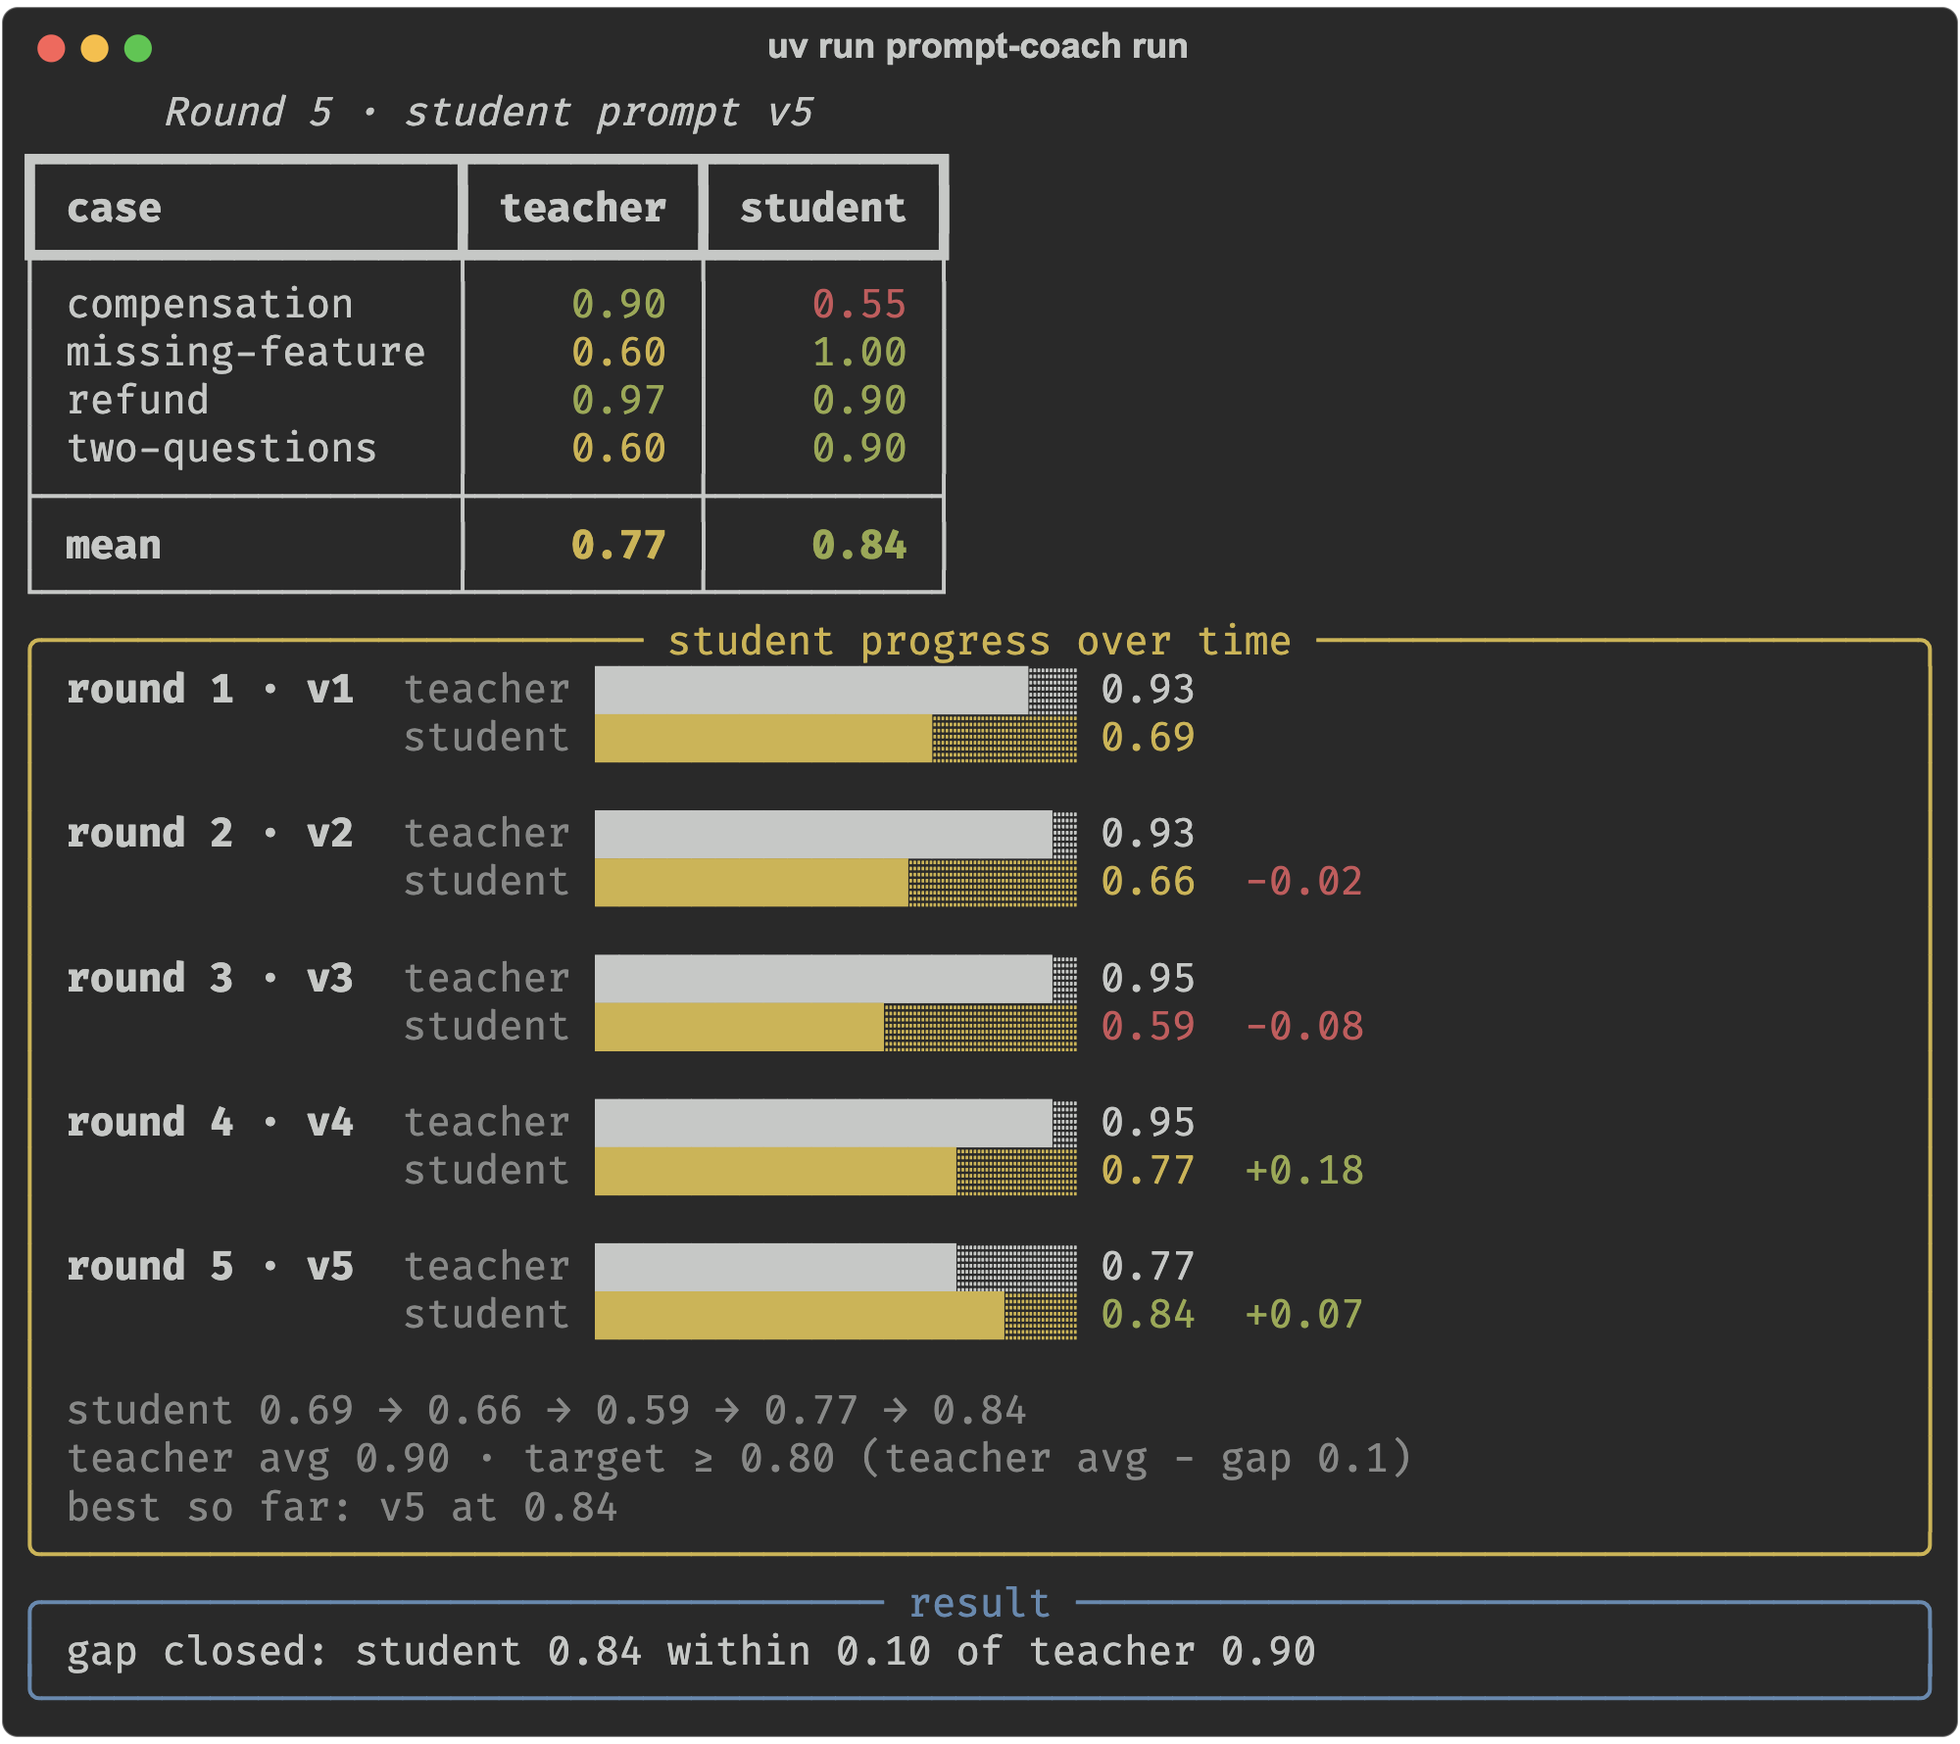
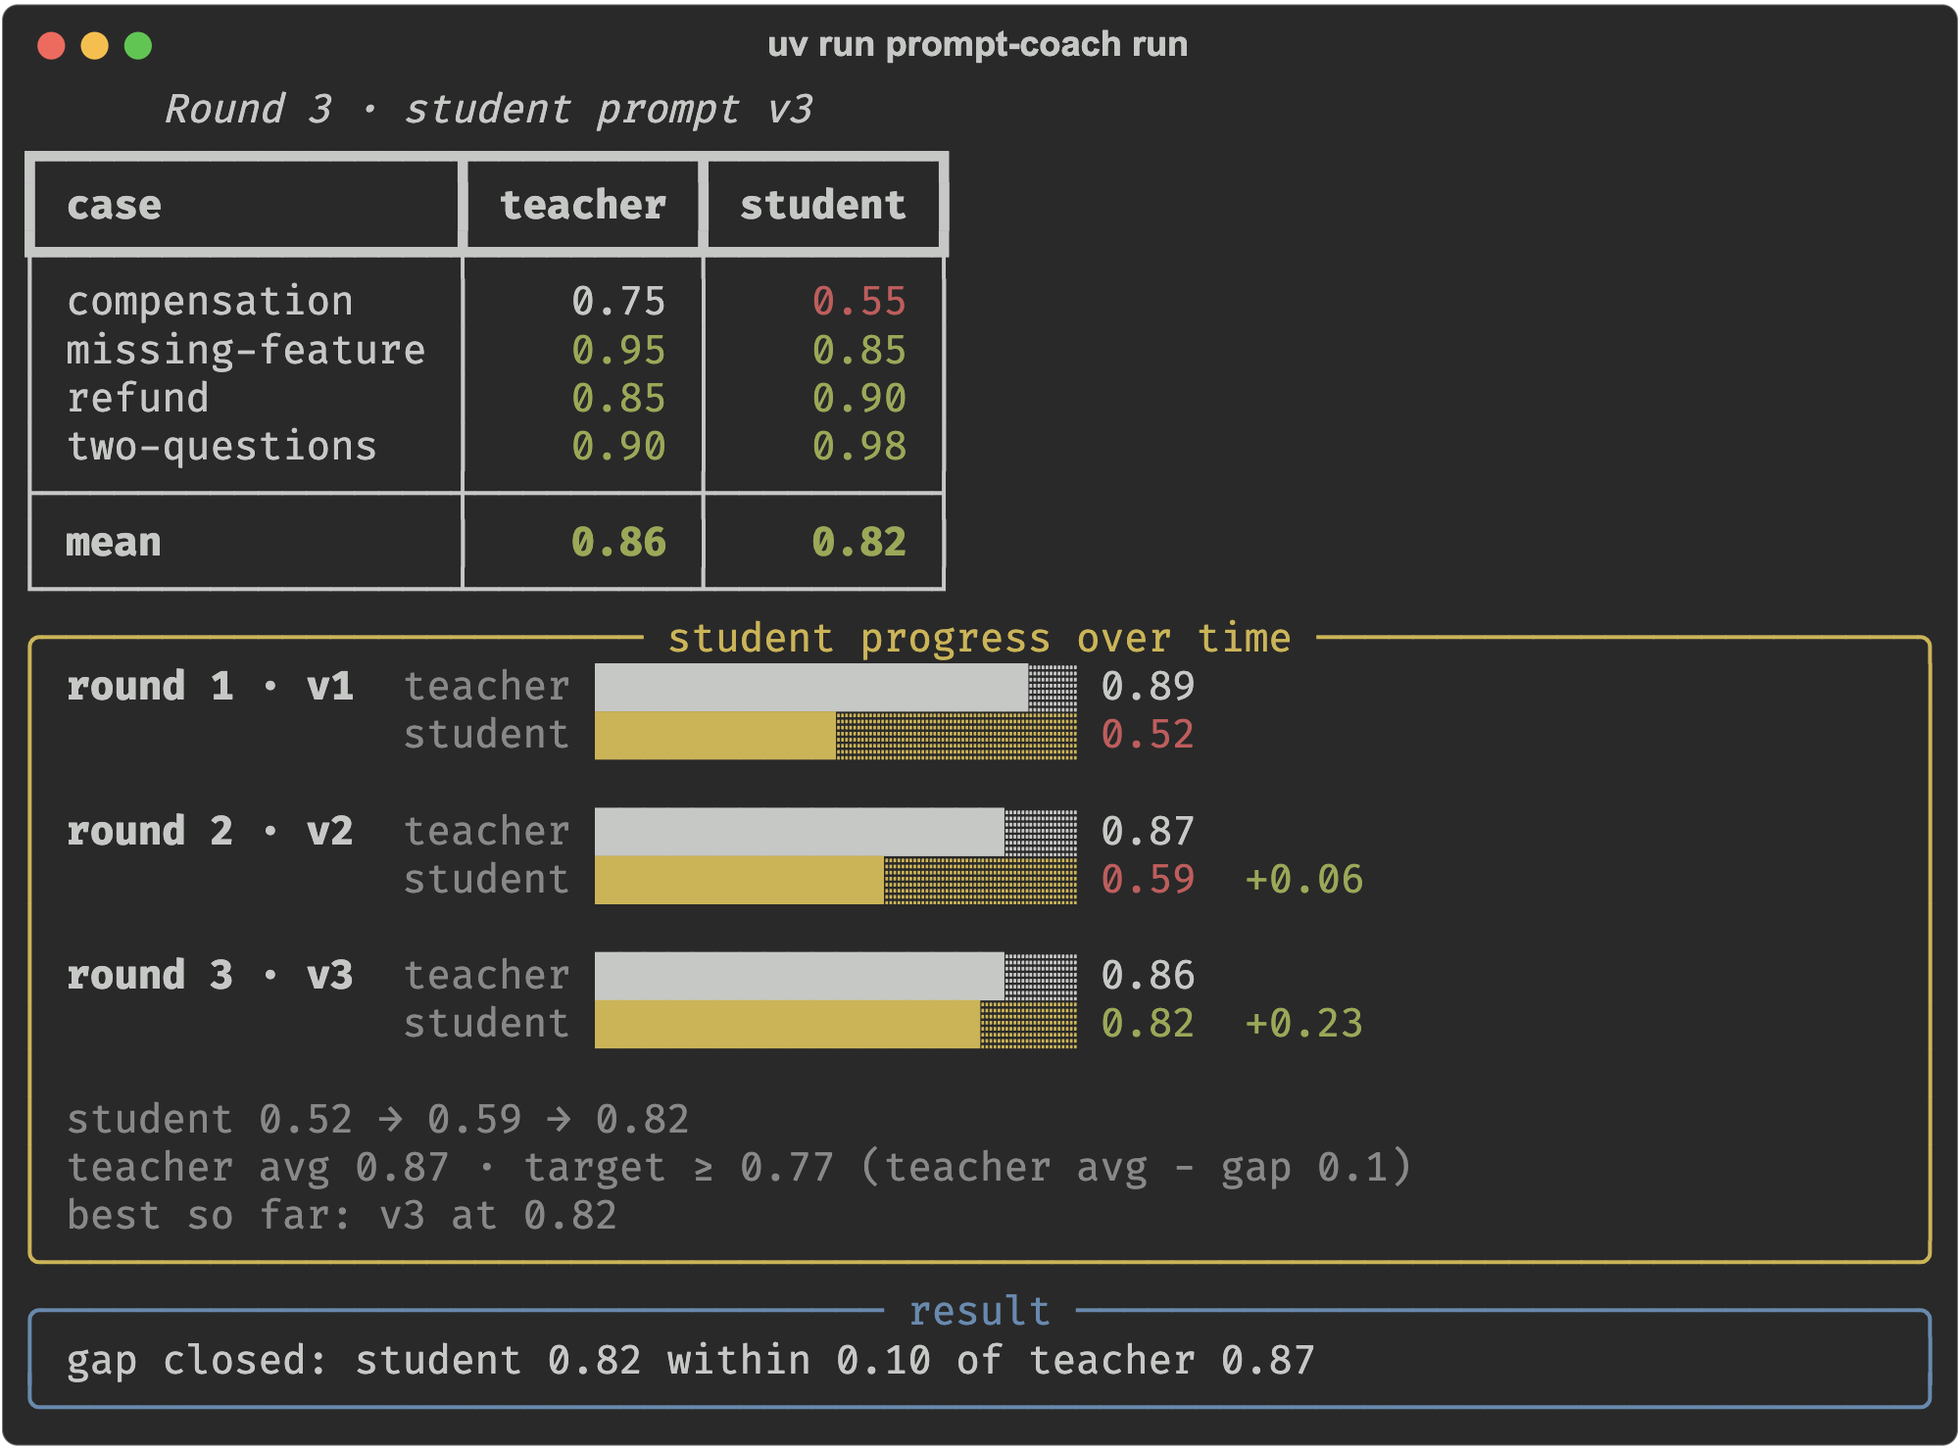
Example task moved to an online store (Loomi); fresh run 0.52 → 0.59 → 0.82; README: use case up front, step-by-step loop, form explained, run explained with the prompt text that changed; screenshots regenerated

diff --git a/README.md b/README.md
@@ -5,10 +5,17 @@ a support job as well as an expensive one, and the only thing that changes betwe
 cheap model's prompt. The code fits in an afternoon of reading and a run costs a few dollars in
 model calls.
 
+The job is customer support for an online store. A customer writes in, the agent gets the message
+and the one policy snippet that applies to it, and the agent writes the reply. The tickets are the
+ones every store gets: a refund request just past the return window, a cancellation and a data
+export in the same message, a delivery slot that does not exist, an angry customer who wants more
+than policy allows. Each one has a detail that a cheap model tends to get wrong, and a checklist of
+what a good reply has to contain, so a reply can be scored and the score can be explained.
+
 ## What is in it
 
-- **Task**: a support desk for a fictional coffee roaster. One folder with the starting prompt, the
-  output-format rules, and the test cases.
+- **Task**: the support desk of Loomi, a fictional online store for home goods. One folder with the
+  starting prompt, the output-format rules, and the test cases.
 - **Test cases**: four customer tickets. Each one is a customer message plus the policy snippet that
   applies to it, a `trap` (the thing a cheap model tends to get wrong), and an `expected` checklist
   of what a good reply must say, must not do, and must answer.
@@ -32,16 +39,23 @@ works.
 
 ```mermaid
 flowchart LR
-    A[Both models answer<br/>the four tickets] --> B[The evaluator scores<br/>every reply]
-    B --> C{Is the student<br/>close enough<br/>to the teacher?}
-    C -- yes --> D([Done])
-    C -- no --> E[The coach writes the student<br/>a new prompt]
-    E --> A
+    U[1. A new ticket<br/>message + policy snippet] --> T[2. Teacher answers<br/>expensive model]
+    U --> S[2. Student answers<br/>cheap model]
+    T --> E[3. Evaluator scores each reply<br/>0–1, with a written reason]
+    S --> E
+    E --> Q{4. Is the student<br/>within the gap<br/>of the teacher?}
+    Q -- no --> C[5. Coach rewrites<br/>the student's prompt]
+    C -- next round --> U
+    Q -- yes --> D([Done])
 ```
 
-The student starts with the same prompt as the teacher. Each round, the coach reads where the
-student lost points and why, and rewrites the student's prompt. The loop ends when the student's
-average score is within a small gap of the teacher's average, or when the round budget is spent.
+1. A ticket comes in: the customer's message plus the policy snippet that applies to it.
+2. Both agents answer it, the teacher with its fixed prompt and the student with its current one.
+3. The evaluator reads each reply against the ticket's checklist and gives it a score and a reason.
+4. After all four tickets, the student's average is compared with the teacher's.
+5. If the student is still behind, the coach reads the low scores and the reasons and writes the
+   student a new prompt. The next round starts with that prompt. When the student is close enough,
+   or the round budget is spent, the loop stops.
 
 ## How it works, step by step
 
@@ -84,7 +98,14 @@ sequenceDiagram
 
 ## What you see
 
-![The web page after a five-round run. The student went from 0.69 to 0.84 while the teacher averaged 0.90.](docs/ui.png)
+![The web page after a three-round run. The student went from 0.52 to 0.82 while the teacher averaged 0.87.](docs/ui.png)
+
+The page shows one run. At the top, the four role cards tell you which model plays each role and its
+current score. The chart underneath is the student's average per round next to the teacher's, with
+the dashed line marking where the loop is allowed to stop. The grid on the right has one row per
+round and one column per ticket, teacher and student side by side, so you can see which ticket moved
+when the prompt changed. Below that are the prompt versions, with the coach's changelog and a diff
+against the previous version, and the evaluator's brief to the coach.
 
 <table>
   <tr>
@@ -97,25 +118,28 @@ sequenceDiagram
   </tr>
 </table>
 
-This is what the evaluator writes. It is the reason behind the 0.10 the student got on the refund
-ticket in round three:
+Every score can be explained. In round one the student scored 0.15 on the refund ticket. This is
+what it wrote to the customer:
 
-> The agent fundamentally misread the timeline: Dana opened the bag 3 days ago (well within the
-> 7-day report window) and the bag was opened 38 days after delivery, which is within the 60-day
-> freshness guarantee window. Instead, the agent incorrectly calculated the 7-day window from the
-> delivery date rather than the opening date, wrongly concluded Dana is 31 days past the deadline,
-> and denied both the freshness guarantee and the standard return, effectively refusing a claim the
-> policy clearly allows. This is a wrong policy decision, which caps the score at 0.4 […] The reply
-> also never answers the customer's second question about where the money goes back to.
+> Thanks for reaching out. I'm sorry to hear two mugs arrived cracked. The good news is our damage
+> guarantee covers this for 60 days from delivery, and you're well within that window. However, we
+> do require damage to be reported within 7 days of unpacking, and you've just unpacked them 38 days
+> after delivery. Unfortunately, this falls outside our 7-day reporting window, so I'm unable to
+> process a claim under our damage guarantee.
 
-And this is the brief the evaluator gave the coach after round one:
+And this is the evaluator's reason for the 0.15, lightly shortened:
 
-> The student consistently identifies the right policy and mechanics but loses points through
-> incomplete execution: leaving required elements implicit rather than stated, dropping specific
-> required details (the 5-day investigation window, the 60-day-and-7-day dual eligibility
-> condition), missing empathy cues the checklist expects, and in one case outright omitting the
-> single most useful policy option (Saturday pickup) in favor of a useless alternative. […] The
-> teacher's edge isn't different policy knowledge, it's completeness and precision.
+> The agent misapplied the 7-day rule. Dana unpacked the mugs 3 days ago and reported immediately,
+> which is within the 7-day-from-unpacking window; the 38 days refers to time since delivery, not
+> since unpacking. The agent denied the damage guarantee claim entirely, which is a wrong policy
+> decision and caps the score at 0.4. It also failed to ask for the photo, did not mention the
+> 2-business-day processing time, and never offered the choice between refund and replacement.
+
+The coach does not see the checklist, but it sees reasons like this one for every low score, plus a
+one-paragraph brief from the evaluator. After round one the brief said the student "loses points on
+missing required details that the teacher reliably includes … it misapplied the reporting-window
+rule entirely, wrongly denying a valid claim", and asked the coach to make the student "verify
+date/window calculations against the policy's actual reference point before applying rules".
 
 ## Running it
 
@@ -133,6 +157,14 @@ uv run prompt-coach serve            # the same loop in the browser at http://12
 
 A round is about 18 model calls, and a run usually stops after two to five rounds.
 
+In the browser, the form at the top left is where you start a run. The chips are the tickets; click
+one to leave it out, and click the `?` on a chip to read its trap and the checklist a good reply has
+to satisfy. `rounds` is the budget and `gap` is how close the student has to get to the teacher's
+average before the loop stops. Press *Start run* and the page fills in as the round goes: the four
+role cards show who is working, the score grid gets a row per round, and the chart and the prompt
+versions update when the round ends. Saved runs are listed under the form, each with its final
+student score and whether it caught up; click one to open it.
+
 ```bash
 uv run prompt-coach run --case refund --case compensation --rounds 3   # a subset of tickets, a shorter budget
 uv run prompt-coach test --case refund                                  # one model, one ticket, one verdict
@@ -148,58 +180,68 @@ in `config.yaml` and put the provider's key in `.env`.
 ## One real run, and how the prompt changed
 
 Claude Sonnet as teacher, Claude Haiku as student, all four tickets, gap 0.1, budget five rounds.
+The loop stopped after three.
 
 | round | student prompt | teacher | student | what the coach changed, and what happened |
 |---|---|---|---|---|
-| 1 | v1, 74 words, same as the teacher's | 0.93 | 0.69 | The student got the policy decisions right but dropped required details and ran over word limits. |
-| 2 | v2, 162 words | 0.93 | 0.66 | Added: answer every request, refuse explicitly, quote exact figures. The refund ticket fell to 0.35. |
-| 3 | v3, 218 words | 0.95 | 0.59 | Added: "state the eligibility decision first and definitively". The student refused a valid refund. Refund at 0.10. |
-| 4 | v4, 220 words | 0.95 | 0.77 | Added: work out which date each policy window counts from. Refund back to 1.00. |
-| 5 | v5, 245 words | 0.77 | 0.84 | Replaced the date rule with "quote the policy's timing verbatim". Caught up. |
+| 1 | v1, 75 words, same as the teacher's | 0.89 | 0.52 | Refund 0.15 (wrongly refused a valid claim), missing-feature 0.35 (invented a delivery timeline, never offered Saturday pickup). |
+| 2 | v2, 220 words | 0.87 | 0.59 | Added: cover every entitlement and next step, check which date each window counts from, never deny what the policy supports. Refund rose to 0.55, but three replies went over the word limit and were capped at 0.6. |
+| 3 | v3, 230 words | 0.86 | 0.82 | Rewrote the same rules with a hard word cap: "cut wording rather than content". Refund 0.90, missing-feature 0.85, two-questions 0.98. Caught up. |
 
-The student started with exactly the teacher's prompt:
+The student started with the teacher's prompt, word for word:
 
 ```
-You are a support agent for Beanhouse, a small online coffee roaster.
+You are a support agent for Loomi, an online store for home goods.
 Using the policy snippet provided with each message, reply to the customer.
 
 Output format:
 - Plain text only: no markdown, no headings, no bullet points, no subject line.
 - Open with a greeting that uses the customer's first name.
-- Sign off with exactly: "Maya, Beanhouse Support".
+- Sign off with exactly: "Maya, Loomi Support".
 - Stay under 120 words unless the ticket or its policy states a tighter limit.
 ```
 
-After round two the coach wrote v3. This is the sentence that did the damage; it reads like good
-advice, and Haiku followed it straight into a wrong refusal:
+After round one the coach added one paragraph. The middle of it is aimed straight at the refund
+mistake above:
 
 ```
-First work out which trigger event the policy actually uses (delivery date, open date,
-report date) and state the customer's eligibility or coverage decision plainly and
-definitively at the start - never hedge, guess, or recalculate mid-reply.
+Read date and window rules carefully: check exactly which event each window counts from
+(delivery, unpacking, report date) before deciding if the customer qualifies - do not
+assume the wrong reference point. If the customer qualifies for something, say so and
+give the concrete next step (what to send, where, and the timeline); never deny a claim
+that the policy's actual wording supports.
 ```
 
-Two rounds later the coach could see that v2 and v3 had both scored below v1, so in v5 it replaced
-that instruction with this one, and the student caught up:
+That fixed the decision and created a new problem: the student now wrote everything it was told to
+include and ran to 124, 143 and 125 words on three tickets, so the evaluator capped those at 0.6.
+The brief after round two said so in plain terms, and v3 kept the same rules but changed how they
+are applied:
 
 ```
-State only what the policy actually says. When a rule names specific days, hours, or
-cutoffs, repeat them in the policy's own terms rather than calculating a new date or
-time yourself. If you must combine two policy facts to answer, only do so when the
-result is certain and simple - otherwise state each fact plainly and let the customer
-work out the rest, rather than inventing a specific figure.
+Cover every entitlement, choice, timeframe, and required next step the policy states, and
+answer every question asked, but write as briefly as possible - use short sentences, no
+repeated phrases, no restating what the customer already said. Never cut a required policy
+detail just to save words; instead trim greetings, transitions, and closing remarks.
 ```
 
-Three things are worth noticing. First, a prompt change is a hypothesis: v2 and v3 looked better
-than v1 and scored worse, and nothing in their text tells you that. Second, the coach only recovered
-because it could see how its earlier versions had scored; the first version of the coach, which
-could not, added rules every round until the prompt was 553 words and the student was worse than
-where it started. Third, the teacher's own score dropped to 0.77 in round five, so the stop rule
-compares with the teacher's average (0.90) and not with the current round, or the student would have
-"won" against a bad day.
+and the last format line became:
 
-Not every run ends like this one. Another run with the same settings went 0.72, 0.68, 0.68, 0.49
-and spent its budget without catching up. The run cards in the web page show both.
+```
+- Stay under 120 words unless the ticket or its policy states a tighter limit - treat this
+  as a hard cap, not a target, and cut wording rather than content to meet it.
+```
+
+Three things are worth noticing. First, each version fixed what the previous round's reasons pointed
+at, and each fix had a side effect that only the scores revealed; the v2 prompt reads like an
+improvement, and on the mean it barely was. Second, the coach converged because it is shown how its
+earlier versions scored, which is what stopped it from adding rules on top of rules; an early
+version of the coach without that history grew the prompt to 553 words over three rounds while the
+student got worse. Third, the target is the teacher's average across rounds (0.87), not the current
+round, so a weak teacher round cannot end the loop on its own.
+
+Not every run ends like this one. With the same settings on an earlier version of the tickets, one
+run went 0.72, 0.68, 0.68, 0.49 and spent its budget without catching up. The run cards in the web
+page show each saved run's final score and whether it caught up.
 
 ## Limits
 
@@ -207,8 +249,9 @@ Four tickets is enough to see the loop and not enough to trust an average: one e
 moves it by 0.025. Read the per-ticket scores. The evaluator is a language model with a checklist,
 so treat its scores as a trend and its written reasons as the signal. The coach optimises against
 these four tickets and there is no hold-out set, so the prompts it writes may fit them; they contain
-no customer names or figures, but this repo cannot prove they generalise. Only the prompt changes:
-no tools, no retrieval, no fine-tuning.
+no customer names or figures, but this repo cannot prove they generalise. In this example we did
+not change the model, add tool calls, add retrieval, or fine-tune anything; the student's prompt is
+the only thing that changes, so that the effect of one lever is visible on its own.
 
 ## Under the hood
 
